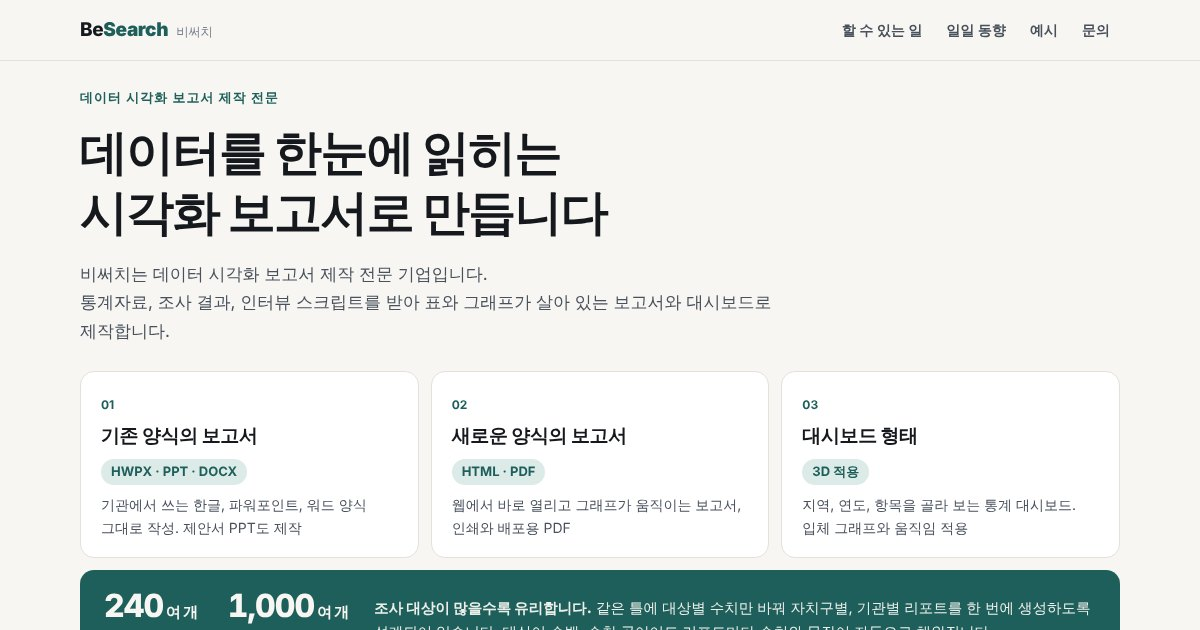
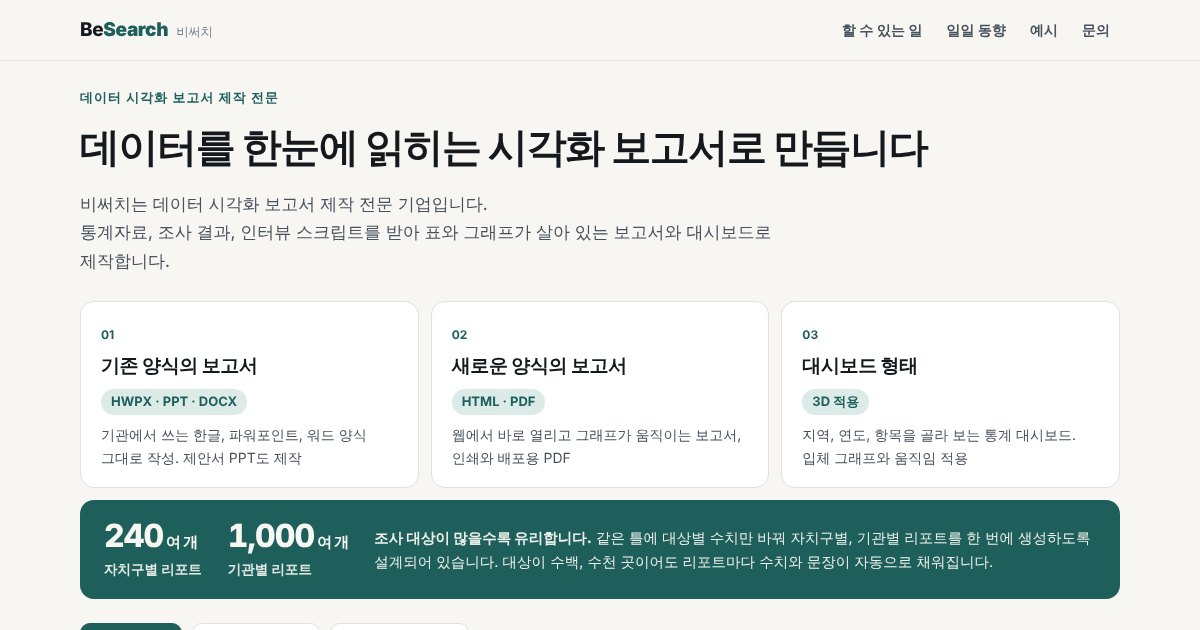
첫 화면 큰 제목을 한 줄로 변경, 제목 줄바꿈 규칙 정리
Claude-Session: https://claude.ai/code/session_01KSbG1FWzM5tJqa3JmCj8ps

Changed region(s): [[0.0617, 0.573, 0.9558, 1.0], [0.0617, 0.2111, 0.7708, 0.5429], [0.37, 0.5127, 0.4008, 0.5429]]

diff --git a/index.html b/index.html
@@ -152,7 +152,9 @@ a.gc:hover{border-color:var(--acc)}
 }
 
 .hero{padding:56px 20px 44px}
-.hero h1{font-size:clamp(30px,4.8vw,48px)}
+.hero h1{font-size:clamp(22px,3.5vw,40px)}
+.hero h1 span{white-space:nowrap}
+h2,h3,h4{text-wrap:balance}
 .pil{display:grid;grid-template-columns:repeat(3,1fr);gap:12px;margin-top:26px}
 .pil div{background:var(--card);border:1px solid var(--line);border-radius:14px;padding:18px 20px}
 .pil span{font-size:12px;font-weight:700;color:var(--acc)}
@@ -262,7 +264,7 @@ a.shot:hover{border-color:var(--acc)}
 <main id="top">
 <div class="in hero">
   <div class="eyebrow">데이터 시각화 보고서 제작 전문</div>
-  <h1>데이터를 한눈에 읽히는<br>시각화 보고서로 만듭니다</h1>
+  <h1><span>데이터를</span> <span>한눈에 읽히는 시각화 보고서로</span> <span>만듭니다</span></h1>
   <p>비써치는 데이터 시각화 보고서 제작 전문 기업입니다.<br>통계자료, 조사 결과, 인터뷰 스크립트를 받아 표와 그래프가 살아 있는 보고서와 대시보드로 제작합니다.</p>
   <div class="pil">
     <div><span>01</span><b>기존 양식의 보고서</b><em>HWPX · PPT · DOCX</em><p>기관에서 쓰는 한글, 파워포인트, 워드 양식 그대로 작성. 제안서 PPT도 제작</p></div>

diff --git a/template.html b/template.html
@@ -152,7 +152,9 @@ a.gc:hover{border-color:var(--acc)}
 }
 
 .hero{padding:56px 20px 44px}
-.hero h1{font-size:clamp(30px,4.8vw,48px)}
+.hero h1{font-size:clamp(22px,3.5vw,40px)}
+.hero h1 span{white-space:nowrap}
+h2,h3,h4{text-wrap:balance}
 .pil{display:grid;grid-template-columns:repeat(3,1fr);gap:12px;margin-top:26px}
 .pil div{background:var(--card);border:1px solid var(--line);border-radius:14px;padding:18px 20px}
 .pil span{font-size:12px;font-weight:700;color:var(--acc)}
@@ -262,7 +264,7 @@ a.shot:hover{border-color:var(--acc)}
 <main id="top">
 <div class="in hero">
   <div class="eyebrow">데이터 시각화 보고서 제작 전문</div>
-  <h1>데이터를 한눈에 읽히는<br>시각화 보고서로 만듭니다</h1>
+  <h1><span>데이터를</span> <span>한눈에 읽히는 시각화 보고서로</span> <span>만듭니다</span></h1>
   <p>비써치는 데이터 시각화 보고서 제작 전문 기업입니다.<br>통계자료, 조사 결과, 인터뷰 스크립트를 받아 표와 그래프가 살아 있는 보고서와 대시보드로 제작합니다.</p>
   <div class="pil">
     <div><span>01</span><b>기존 양식의 보고서</b><em>HWPX · PPT · DOCX</em><p>기관에서 쓰는 한글, 파워포인트, 워드 양식 그대로 작성. 제안서 PPT도 제작</p></div>

diff --git a/contact.html b/contact.html
@@ -152,7 +152,9 @@ a.gc:hover{border-color:var(--acc)}
 }
 
 .hero{padding:56px 20px 44px}
-.hero h1{font-size:clamp(30px,4.8vw,48px)}
+.hero h1{font-size:clamp(22px,3.5vw,40px)}
+.hero h1 span{white-space:nowrap}
+h2,h3,h4{text-wrap:balance}
 .pil{display:grid;grid-template-columns:repeat(3,1fr);gap:12px;margin-top:26px}
 .pil div{background:var(--card);border:1px solid var(--line);border-radius:14px;padding:18px 20px}
 .pil span{font-size:12px;font-weight:700;color:var(--acc)}

diff --git a/daily.html b/daily.html
@@ -152,7 +152,9 @@ a.gc:hover{border-color:var(--acc)}
 }
 
 .hero{padding:56px 20px 44px}
-.hero h1{font-size:clamp(30px,4.8vw,48px)}
+.hero h1{font-size:clamp(22px,3.5vw,40px)}
+.hero h1 span{white-space:nowrap}
+h2,h3,h4{text-wrap:balance}
 .pil{display:grid;grid-template-columns:repeat(3,1fr);gap:12px;margin-top:26px}
 .pil div{background:var(--card);border:1px solid var(--line);border-radius:14px;padding:18px 20px}
 .pil span{font-size:12px;font-weight:700;color:var(--acc)}

diff --git a/examples.html b/examples.html
@@ -152,7 +152,9 @@ a.gc:hover{border-color:var(--acc)}
 }
 
 .hero{padding:56px 20px 44px}
-.hero h1{font-size:clamp(30px,4.8vw,48px)}
+.hero h1{font-size:clamp(22px,3.5vw,40px)}
+.hero h1 span{white-space:nowrap}
+h2,h3,h4{text-wrap:balance}
 .pil{display:grid;grid-template-columns:repeat(3,1fr);gap:12px;margin-top:26px}
 .pil div{background:var(--card);border:1px solid var(--line);border-radius:14px;padding:18px 20px}
 .pil span{font-size:12px;font-weight:700;color:var(--acc)}
